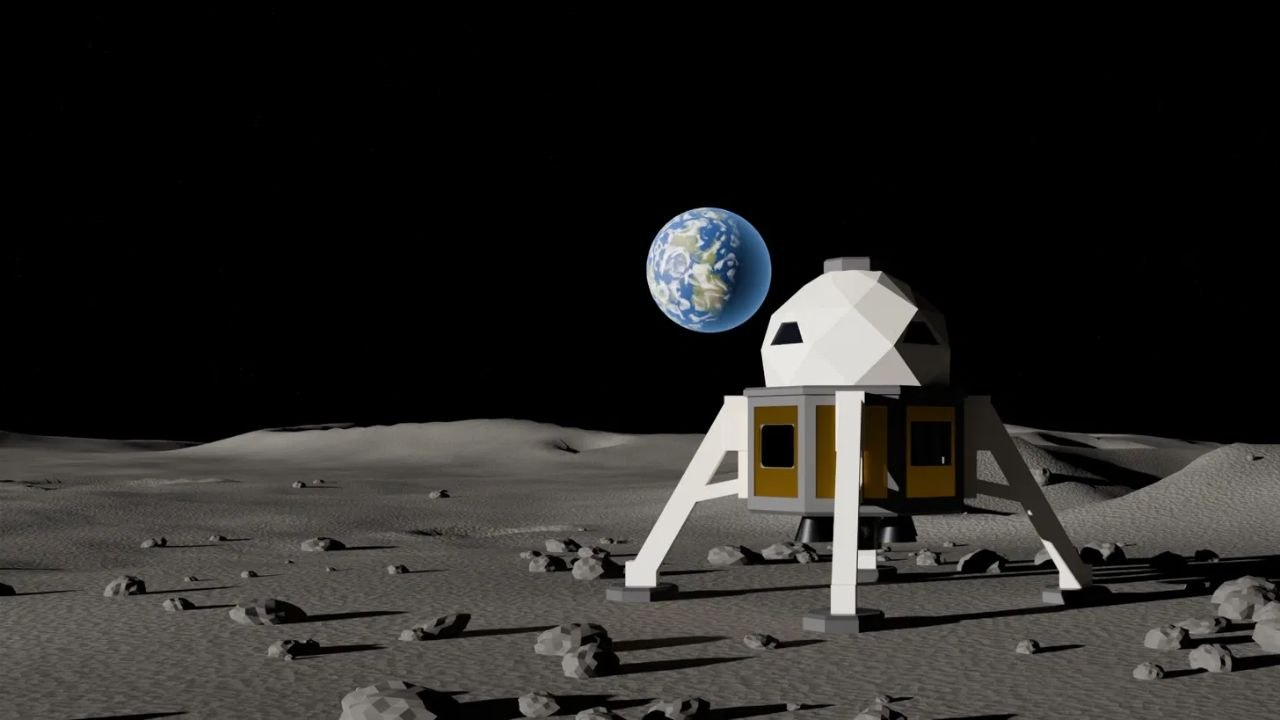
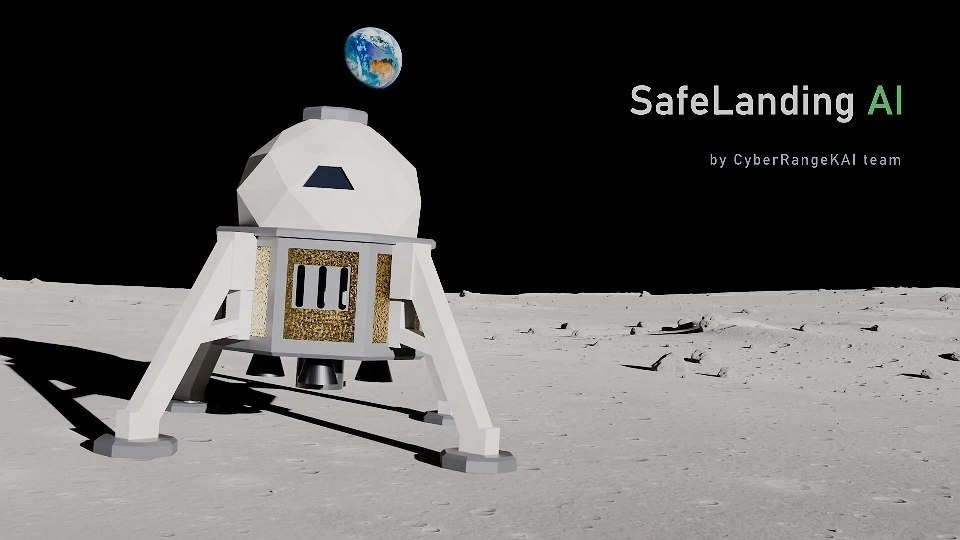
Update the project video cover

diff --git a/README.md b/README.md
@@ -8,7 +8,7 @@ SafeLanding AI combines NASA/JPL ephemerides with lunar terrain to help choose w
 
 ## Project video
 
-[![Lunar lander render with Earth above the horizon. Open the project video.](docs/media/lander-render.png)](docs/media/project.mp4?raw=true)
+[![SafeLanding AI title card with the lunar lander and Earth. Open the project video.](docs/media/lander-render.png)](docs/media/project.mp4?raw=true)
 
 [Open or download the project video (MP4, 30 seconds, 47 MiB)](docs/media/project.mp4?raw=true)
 
